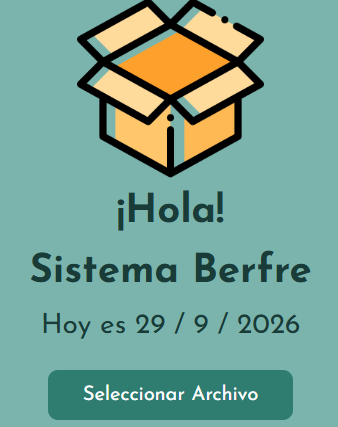
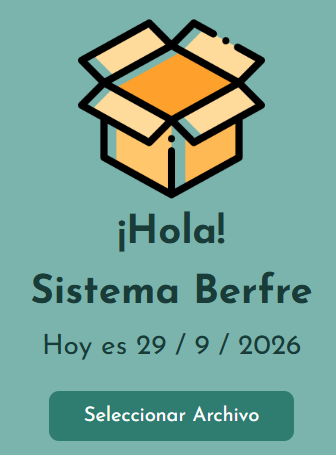
tutoriales modificaciones
se modificaron los tutoriales para que sea mas facil de seguir y entender
se realizo build para una prueba inicial real

diff --git a/templates/diccionario_mod.html b/templates/diccionario_mod.html
@@ -11,6 +11,10 @@
     <img src="{{ url_for('static', filename='logo.ico') }}" alt="Logo" width="120">
     <h1>Modificar Datos</h1>
 
+    <a href="{{ url_for('ver_tarjetas') }}" style="position: fixed; top: 15px; left: 15px; z-index: 9999;">
+        <button class="bt" type="button">Ir a Tutoriales</button>
+    </a>
+
     <!-- SELECTOR DE DICCIONARIO -->
     <div class="selector-dic">
         {% for clave, etiqueta in dic_labels.items() %}

diff --git a/front_flask.py b/front_flask.py
@@ -671,19 +671,29 @@ def ver_tarjetas():
             "imagen": "static/tutorial2.png"
         },
         {
-            "titulo": "Paso 3: Reserva",
+            "titulo": "Paso 3: Tabla",
+            "descripcion": "La previsualización de la tabla permite ver los datos que contendra la tabla antes de descargar una planilla excel, carga datos en bloques de 50",
+            "imagen": "static/tutorial7.png"
+        },
+        {
+            "titulo": "Paso 4: Reserva",
             "descripcion": "Al presionar el boton de Revisar stock de reserva te pedira subir una reserva, esto comparará el stock de la bodega segun EXPORT y la reserva, pudiendo descargar una planilla con los datos comparados",
             "imagen": "static/tutorial3.png"
         },
         {
-            "titulo": "Paso 4: Añadir venta",
+            "titulo": "Paso 5: Añadir venta",
             "descripcion": "Trabajando en ello.",
             "imagen": "static/tutorial4.jpg"
         },
         {
-            "titulo": "Paso 5: Modificar informacion de material",
-            "descripcion": "Gran parte de la informacion escencial de los materiales se guardan en esta seccion, puedes importar datos completos, exportarlos, o puedes modificar datos especificos de cada lista",
+            "titulo": "Paso 6: Modificar informacion de material",
+            "descripcion": "Gran parte de la informacion escencial de los materiales se guardan en esta seccion, puedes modificar datos especificos de cada lista y exportarlos para compartirlos",
             "imagen": "static/tutorial5.png"
+        },
+        {
+            "titulo": "Paso 7: Importar y añadir material",
+            "descripcion": "En esta sección, abajo de la tabla, esta la opcoin de añadir un dato nuevo a una seccion de materiales, o subir un archivo para modificar multiples materiales, tambien esta la opcion de subir archivos oficiales",
+            "imagen": "static/tutorial6.png"
         },
         #{
         #    "titulo": "Paso : ",
